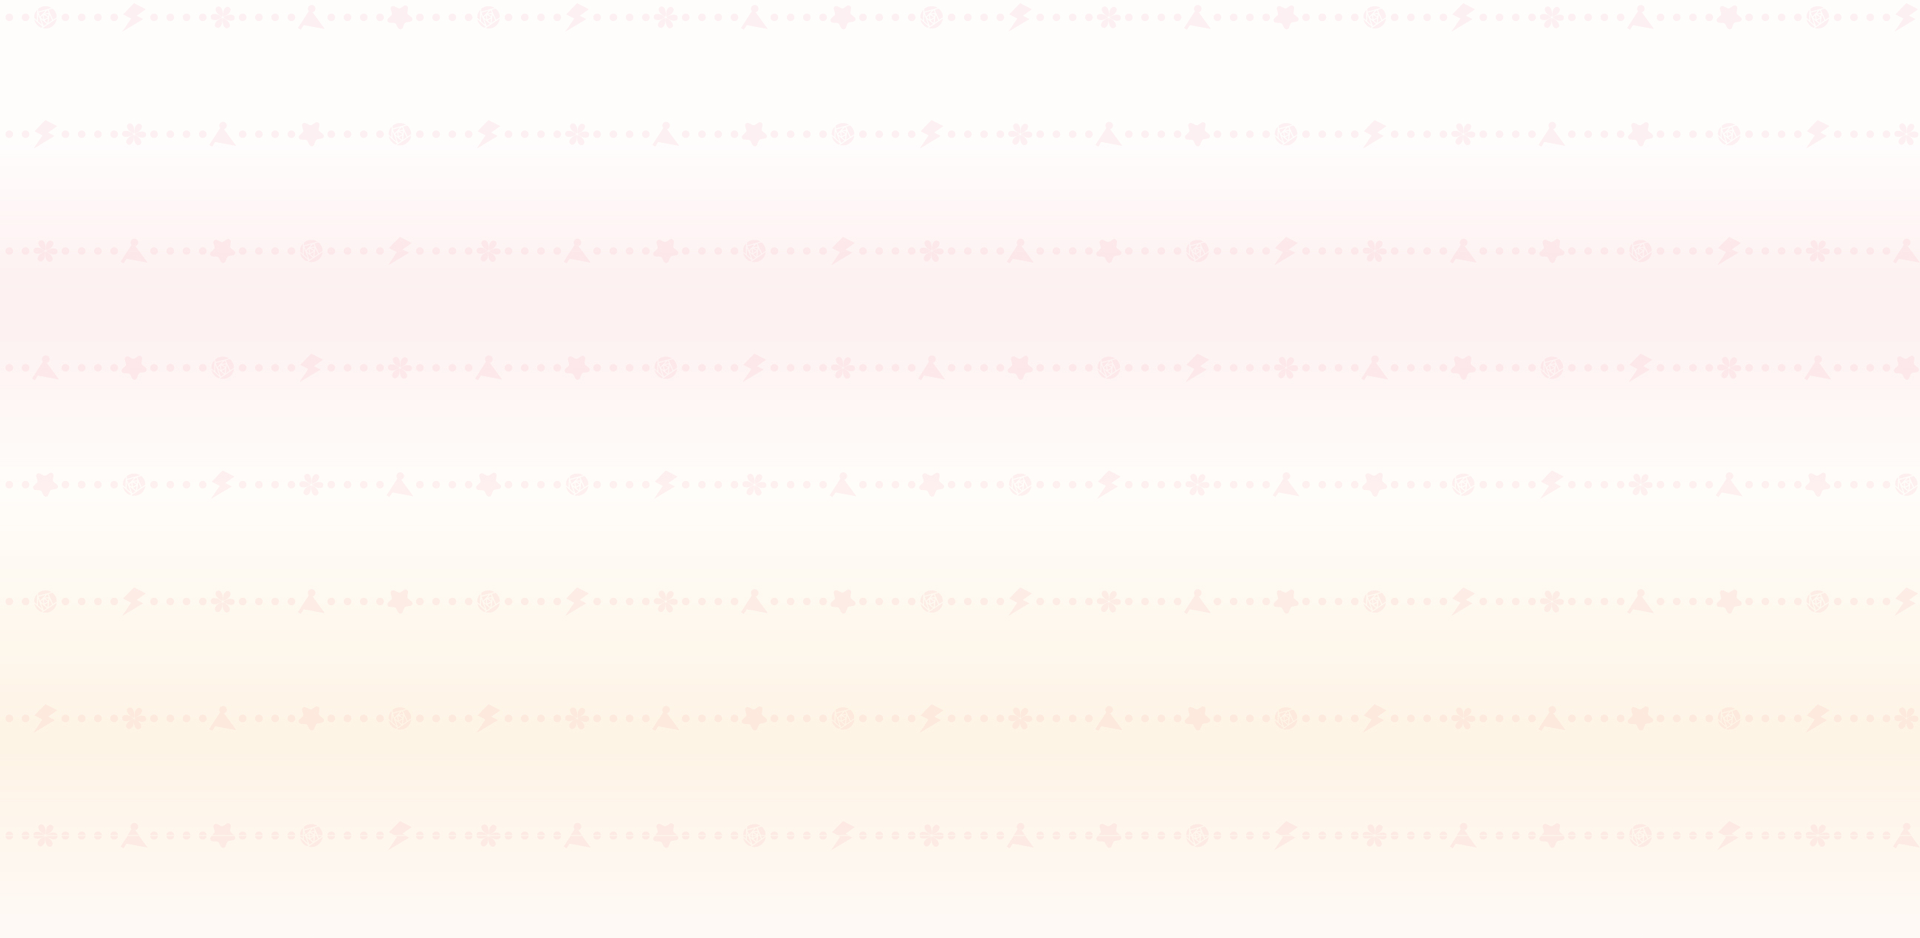
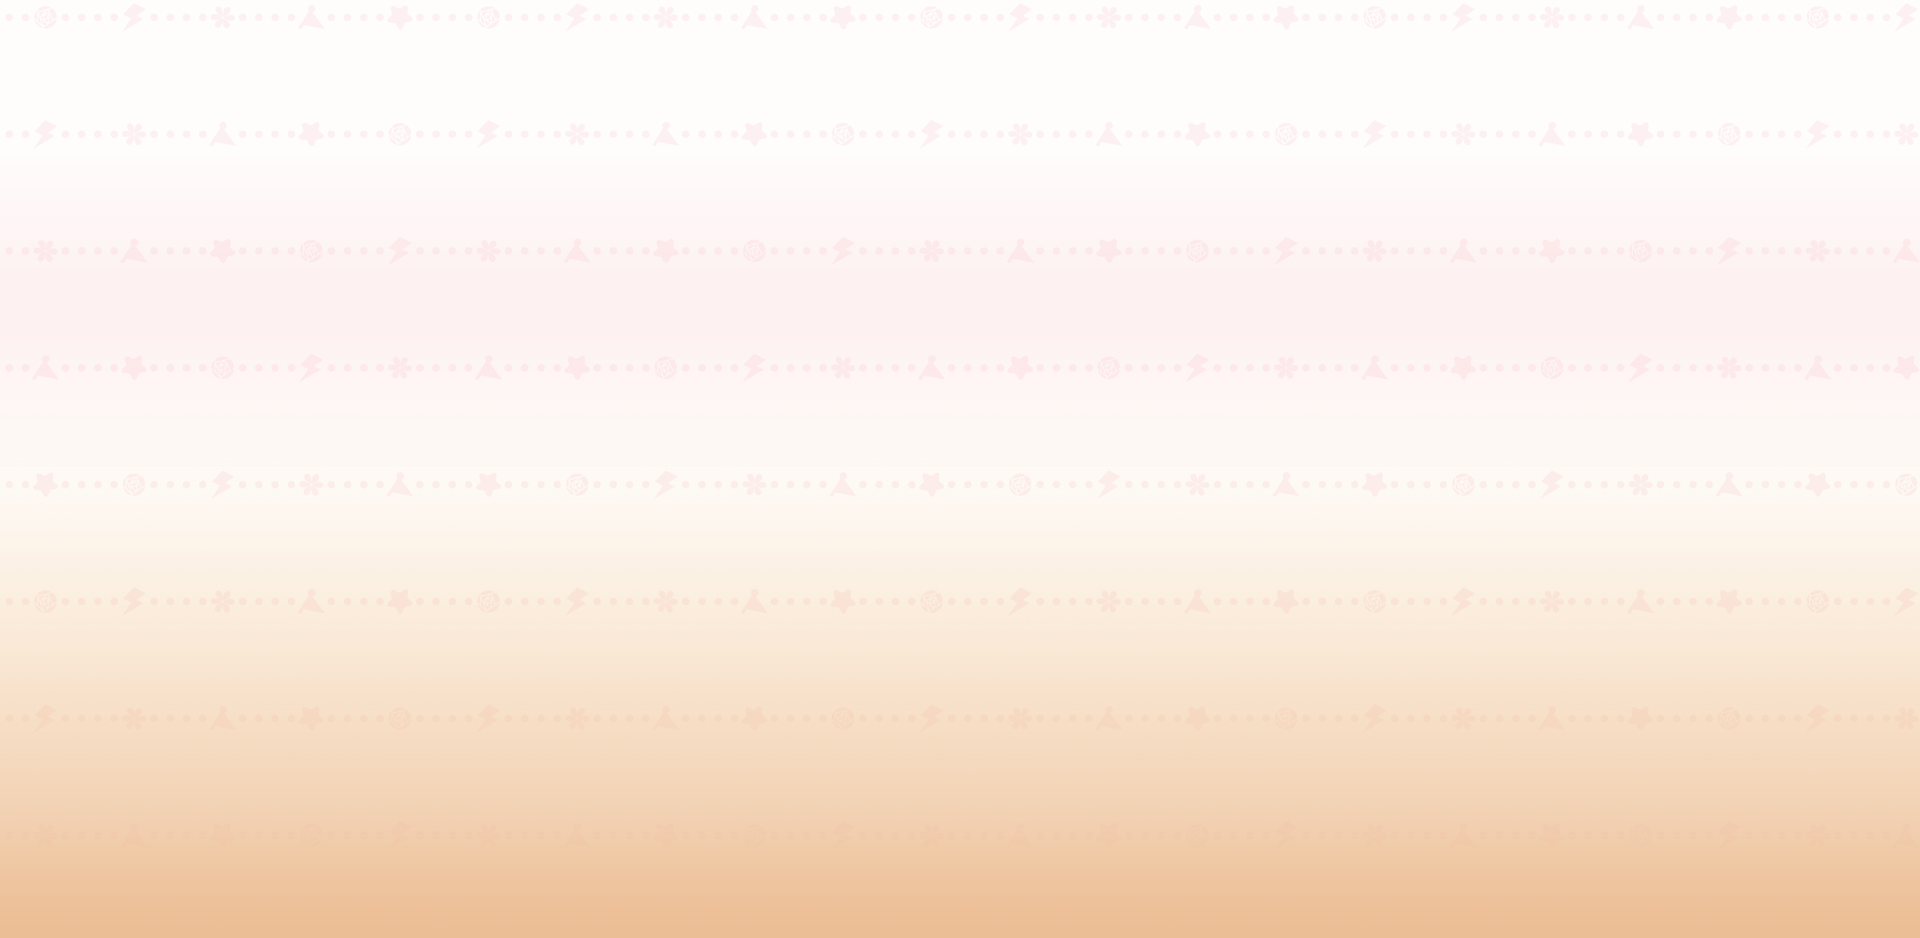
added styling to page

Changed region(s): [[0.0, 0.6802, 1.0, 1.0]]

diff --git a/src/style.css b/src/style.css
@@ -1,36 +1,111 @@
-@import url('reset.css');
-/*-------------nav styling----------------*/
-header{
+/* Set box-sizing to border-box globally */
+* {
+    box-sizing: border-box;
+  }
+  
+  @import url('reset.css');
+  
+  /*-------------nav styling----------------*/
+  header {
     background-color: #ffd0d6;
-}
-nav{
+    height: auto;
+  }
+  
+  nav {
     display: flex;
     justify-content: space-between;
-}
-.logo > img{
+  }
+  
+  .logo > img {
     width: 150px;
-}
-button{
+  }
+  
+  button {
     border: none;
     width: 100px;
     height: 60px;
     background-color: white;
-}
-#nav-buttons{
+  }
+  
+  body {
+    margin: 0; /* Remove default margin */
+    height: 100vh;
+    display: flex;
+    flex-direction: column; /* Ensure body stretches to full height */
+  }
+  
+  
+  #nav-buttons {
     display: flex;
     justify-content: center;
     align-items: center;
     gap: 20px;
     padding: 20px;
-}
-/* ------------home styling --------------*/
-#contentHome{
+  }
+  
+  /* ------------home styling --------------*/
+  #contentHome {
+    background-image: url(../images/gbpBgCoco.png);
+    background-size: cover;
+    background-repeat: no-repeat;
+    background-position: center;
     display: flex;
-    justify-content: space-between;
+    justify-content: space-around;
+    align-items: stretch; /* Ensure children stretch vertically */
+    flex: 1; /* Allow #contentHome to take remaining vertical space */
+  }
+
+  .nekopara-img{
+    filter: drop-shadow(0 0 20px rgba(255, 255, 255, 0.8)); /* Adjust shadow values */
+  }
+
+  #right{
+    display: flex;
+    flex-direction: column;
     align-items: center;
-    height: 100%;
+    justify-content: center;
+    margin: 100px;
+    font-size: 30px;
+    color: #584b4b;
+  }
+
+  /*------------menu styling -------------*/
+  #contentMenu {
+    margin: 128px 128px;
+    flex: 1;
+    display: grid;
+    grid-template-columns: 1fr;
+    gap: 32px;
+    justify-content: center;
+    align-items: center;
+}
+#menu-food{
+    display: flex;
+    align-items: center;
+    gap: 100px;
+}
+.food-desc{
+    display: flex;
+    flex-direction: column;
+    justify-content: center;
+    align-items: center;
+}
+.food-img {
+    display: flex;
+    justify-content: center;
+    align-items: center;
+    border-radius: 32px;
+    padding: 10px 0px;
+    background-color: var(--MuleFawn);
+    width: 450px;
+    max-height: 200px;
+    padding: 10px 32px;
 }
 
-
-
+.second-menu {
+    justify-content: flex-end;
+}
+  
+  
+  
 

diff --git a/webpack.config.js b/webpack.config.js
@@ -9,23 +9,27 @@ module.exports = {
     path: path.resolve(__dirname, 'dist'),
   },
   module: {
-        rules: [
-            {
-                test: /\.css$/,
-                use: ['style-loader', 'css-loader'],
-            },
-            {
-              test: /\.(png|svg|jpg|jpeg|gif)$/i,
-              type: 'asset/resource',
-            },
-        ],
-    },
+    rules: [
+      {
+        test: /\.css$/,
+        use: ['style-loader', 'css-loader'],
+      },
+      {
+        test: /\.(png|svg|jpg|jpeg|gif)$/i,
+        type: 'asset/resource',
+      },
+      {
+        test: /\.(png|svg|jpg|gif|ico)$/,
+        use: ['file-loader?name=[name].[ext]']
+    }
+    ],
+  },
   plugins: [
     new HtmlWebpackPlugin({
-        template: './src/index.html',
-        filename: 'index.html',
-        favicon: './images/pink-paw-print.svg',
-        inject: 'body',
+      template: './src/index.html',
+      filename: 'index.html',
+      favicon: './images/pink-paw-print.svg', 
+      inject: 'body',
     }),
   ],
 };

diff --git a/src/home.js b/src/home.js
@@ -1,4 +1,4 @@
-import nekopara from '../images/nekopara_by_wildmuffin2000_dfevkdv-414w-2x.jpg';
+import nekopara from '../images/nekopara_by_wildmuffin2000_dfevkdv-414w-2x.png';
 
 const homeDisplay = {
     content: document.querySelector('#content'),
@@ -6,6 +6,9 @@ const homeDisplay = {
         console.log('homeDisplay initialized');
 
         this.content.setAttribute("id", "contentHome"); //set id for css
+        while (this.content.firstChild) {
+            this.content.removeChild(this.content.firstChild);
+        }
         this.appendContainers();
         this.appendLeft();
         this.appendRight();

diff --git a/src/menu.js b/src/menu.js
@@ -104,7 +104,7 @@ const menuDisplay = {
 
         if (food.second) {
             console.log(food);
-            menuFood.classList.add('secondMenu');
+            menuFood.classList.add('second-menu');
             menuFood.appendChild(foodDesc);
             menuFood.appendChild(foodImgContainer);
         }else{
